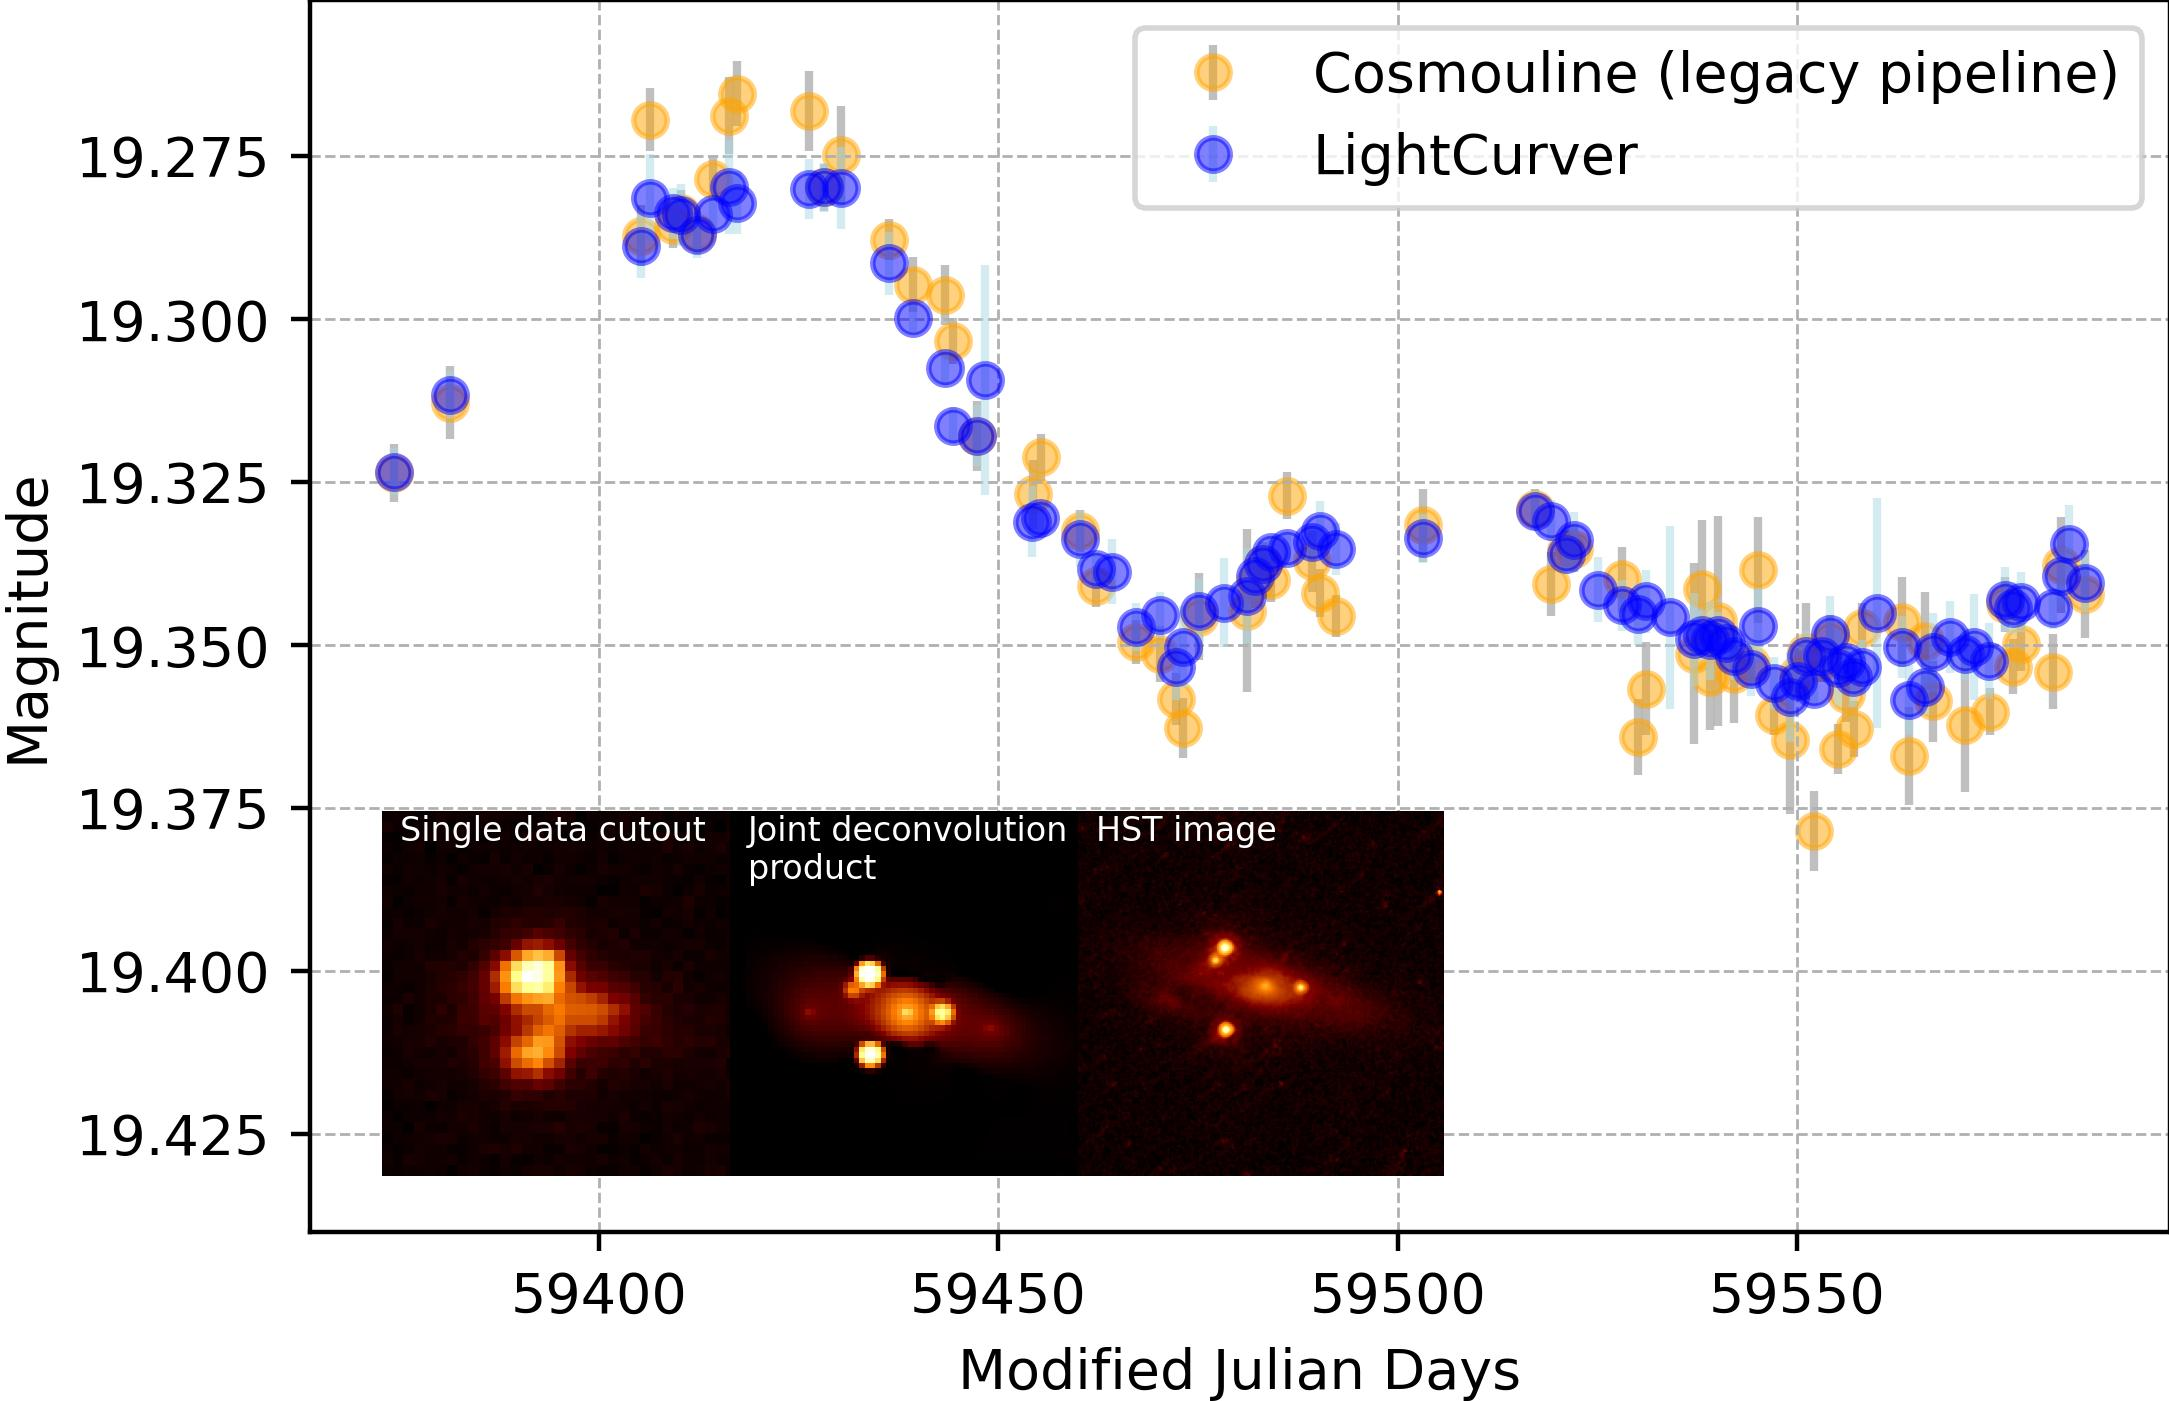
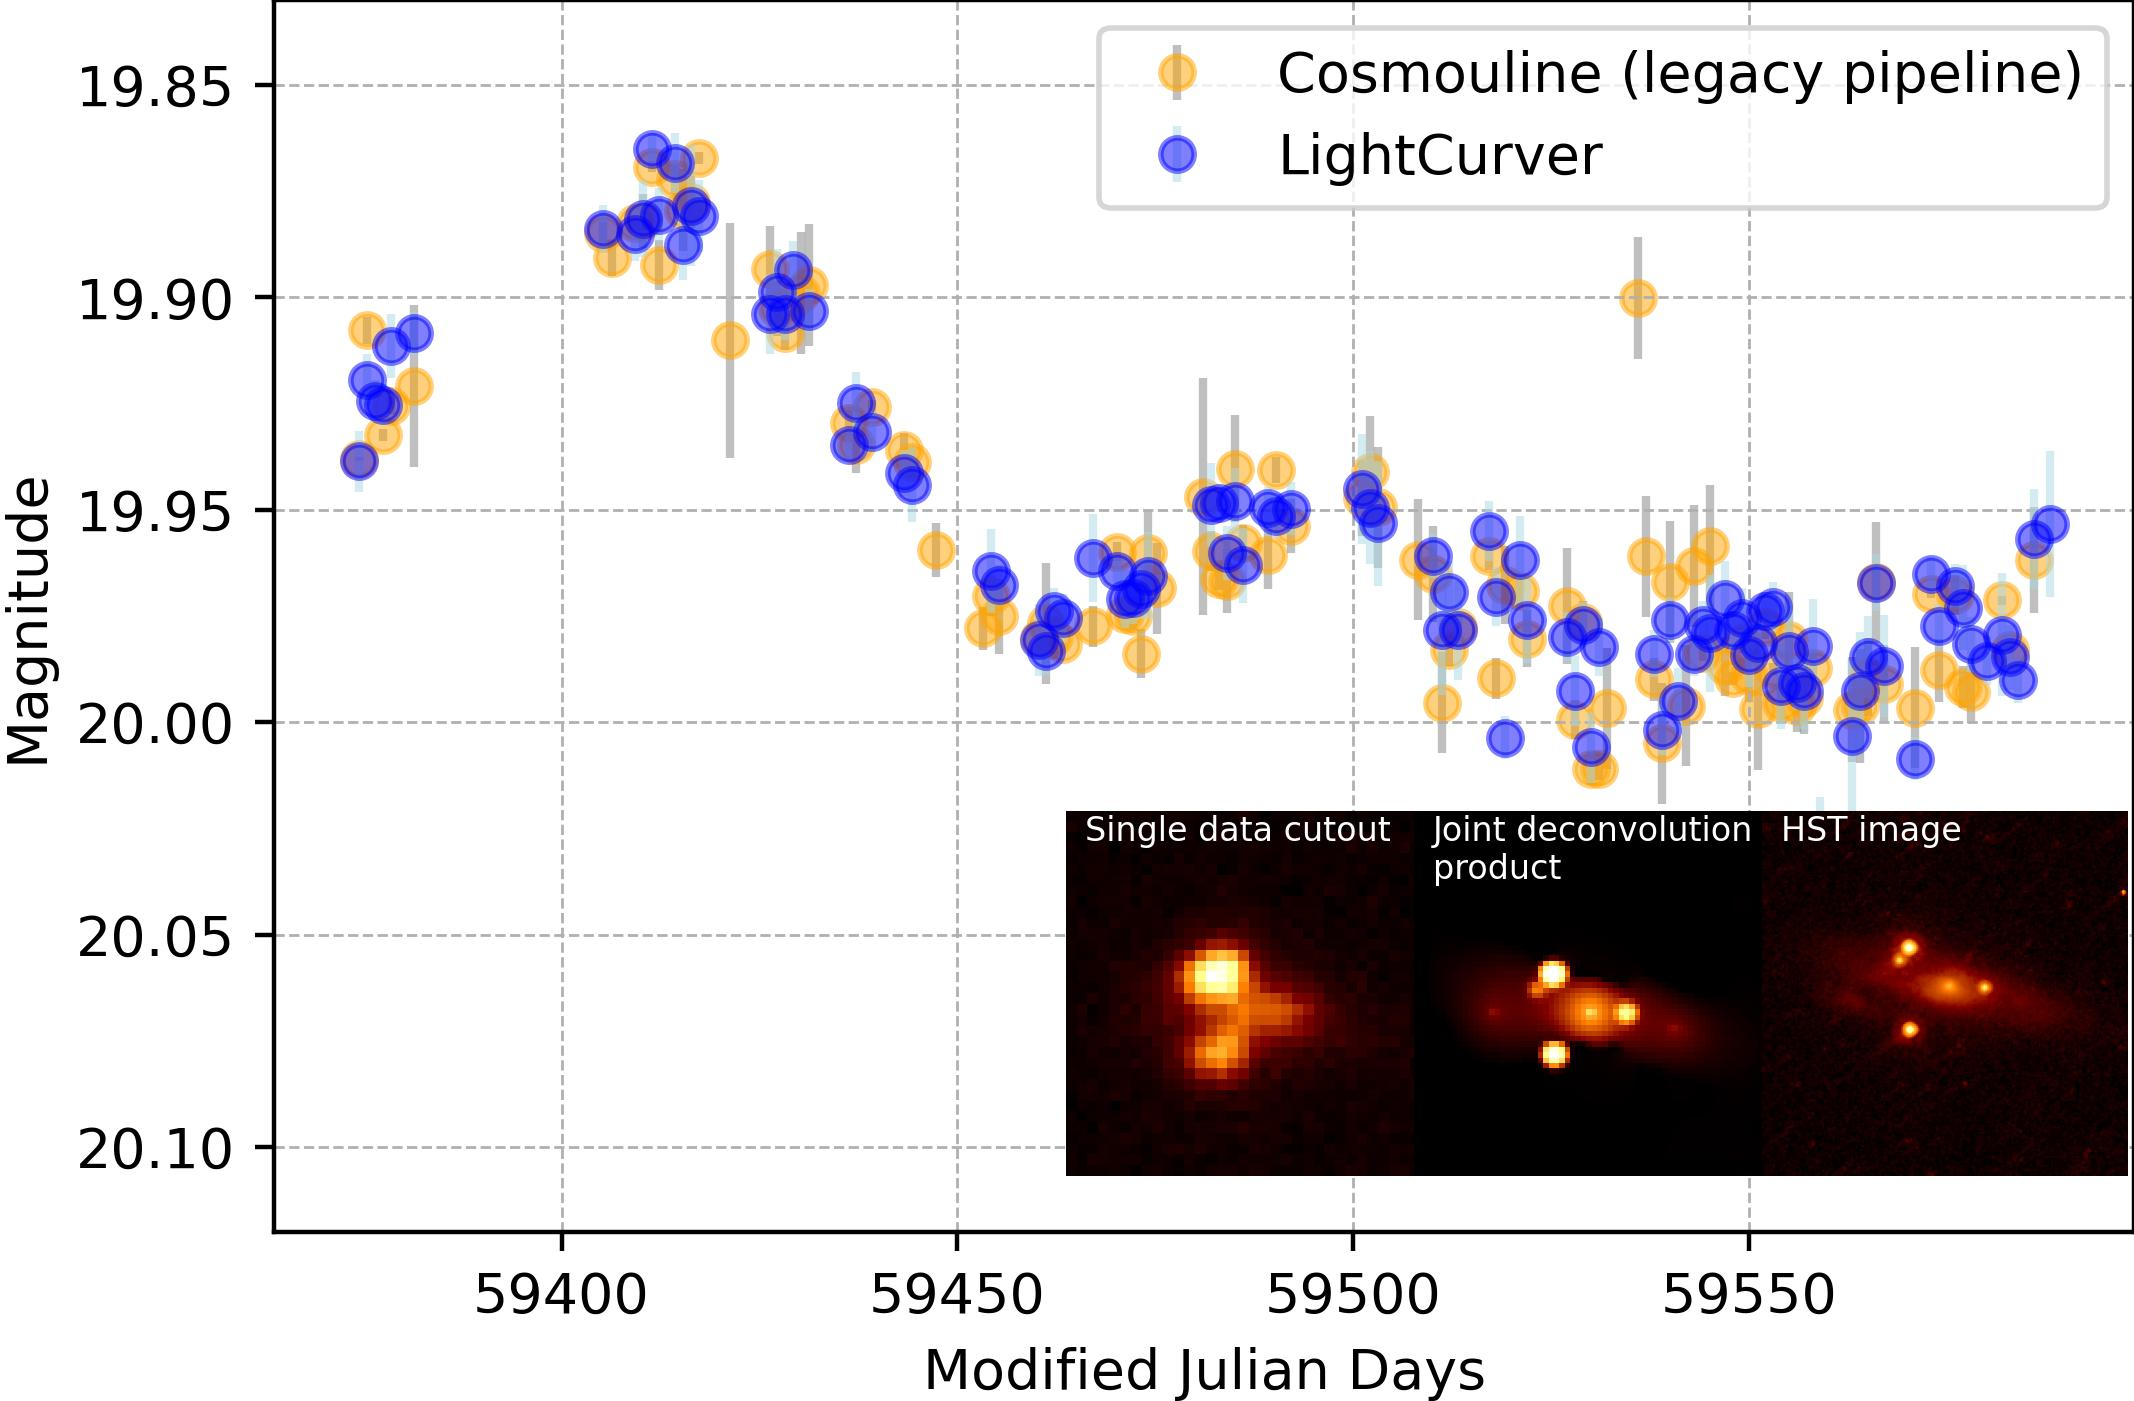
switched to southern image, more fair

diff --git a/plot/comparison_with_legacy_pipeline.py b/plot/comparison_with_legacy_pipeline.py
@@ -4,13 +4,14 @@ import numpy as np
 from mpl_toolkits.axes_grid1.inset_locator import inset_axes
 from astropy.visualization import simple_norm
 
-cosmouline_df = pd.read_csv('J0030_VST_AD_cosmouline.csv')
+cosmouline_df = pd.read_csv('J0030_VST_B_cosmouline.csv')
 
-lightcurver_df = pd.read_csv('J0030_VST_AD_lightcurver.csv')
+lightcurver_df = pd.read_csv('J0030_VST_B_lightcurver.csv')
 
 plt.figure(figsize=(6, 4))
 
-plt.errorbar(cosmouline_df['mhjd'], cosmouline_df['mag'], yerr=cosmouline_df['magerr'],
+# -0.68 offset for alignment, magnitude calibration was not done in cosmouline version
+plt.errorbar(cosmouline_df['mhjd'], cosmouline_df['mag']-0.68, yerr=cosmouline_df['magerr'],
              fmt='o', color='orange', alpha=0.5, zorder=1, label='Cosmouline (legacy pipeline)',
              ecolor='gray')
 
@@ -22,7 +23,7 @@ plt.xlabel('Modified Julian Days')
 plt.ylabel('Magnitude')
 plt.legend()
 plt.grid(True, which='both', linestyle='--', linewidth=0.5)
-plt.ylim((19.44, 19.251))
+plt.ylim((20.12, 19.83))
 
 def add_image_in_plot(image, ax, zoom, position, norm, x_offset, text):
     zoom_width = zoom_height = zoom * ax.get_figure().get_figwidth() / 100
@@ -47,7 +48,7 @@ deconv_image = np.load('PSJ0030-1525_deconv_image.npy')
 
 ax = plt.gca()
 
-initial_offset = 0.03
+initial_offset = 0.33
 offset_increment = 0.145
 zoom = 39
 
